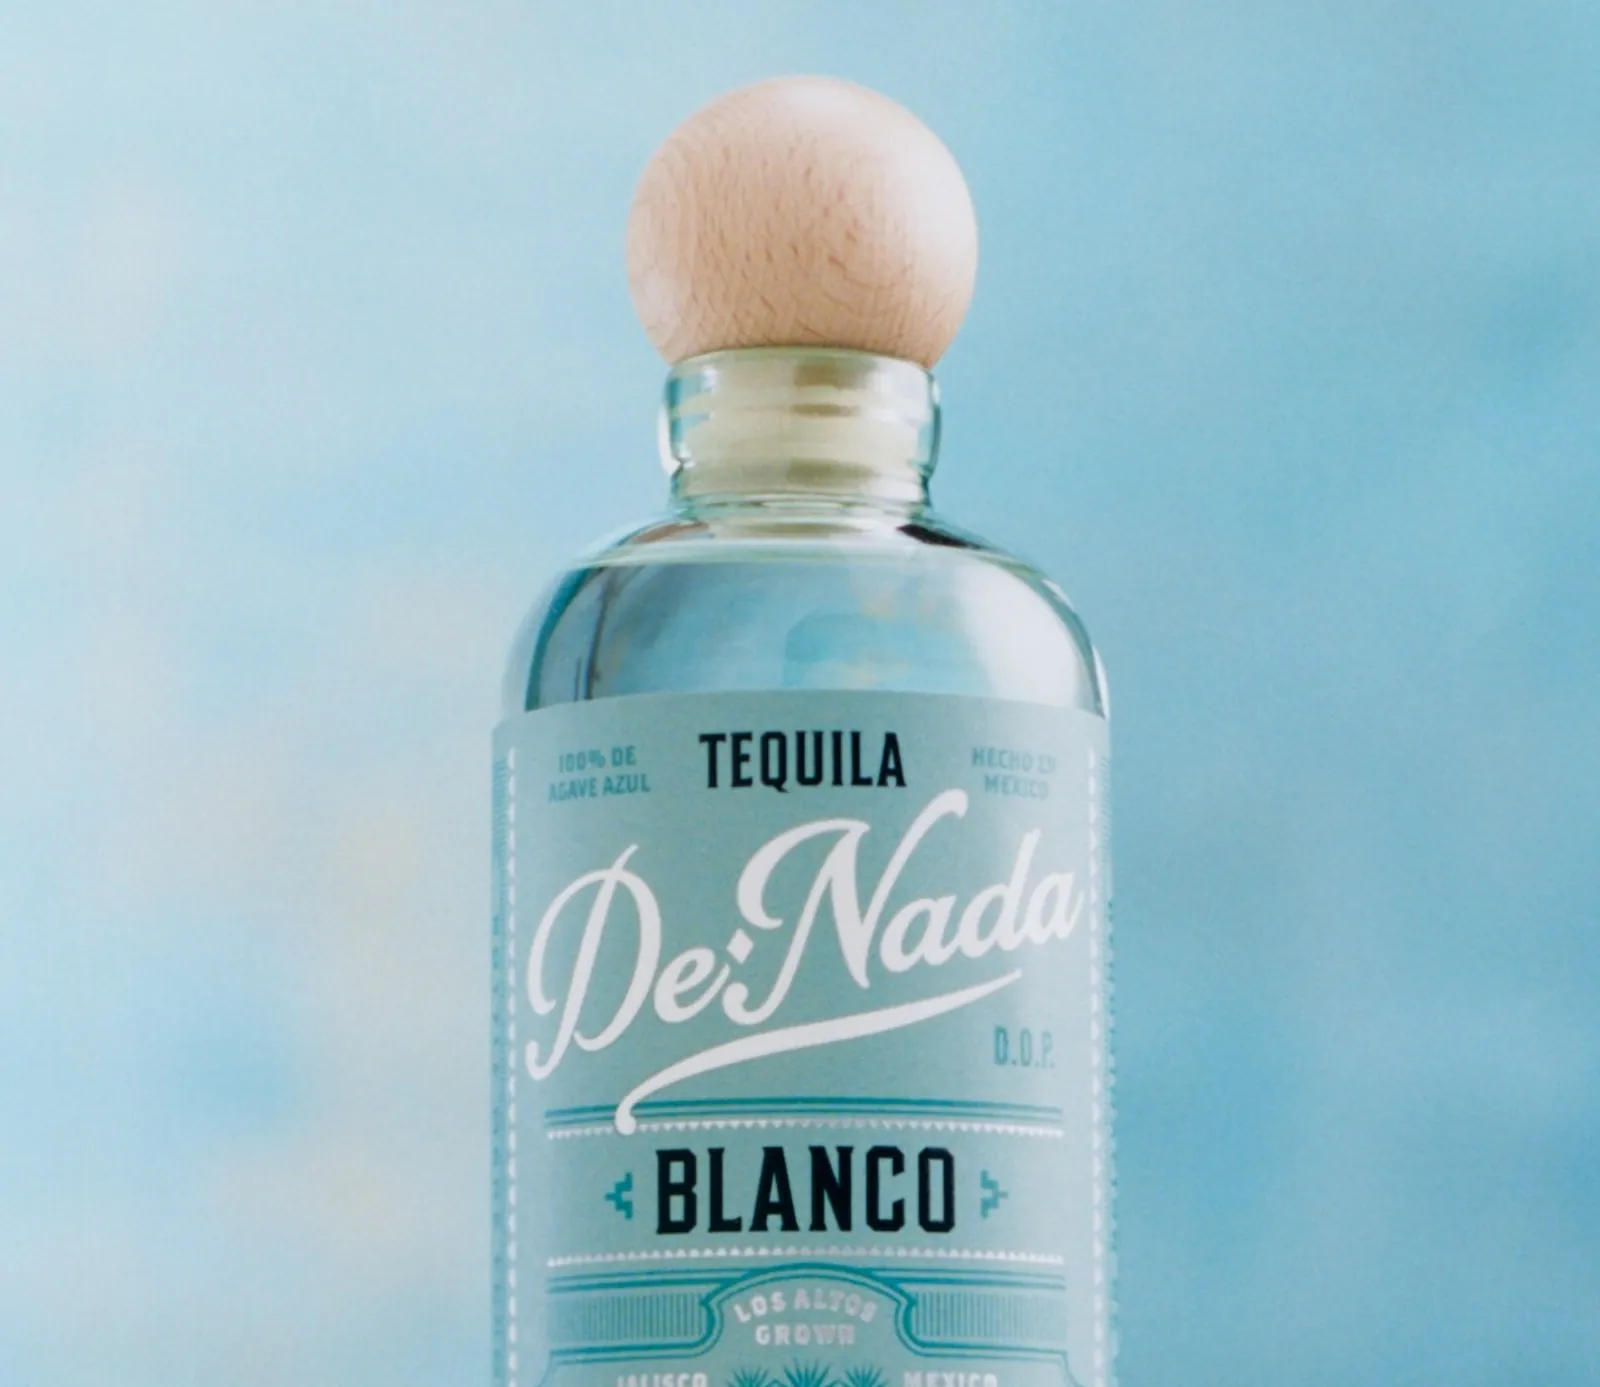
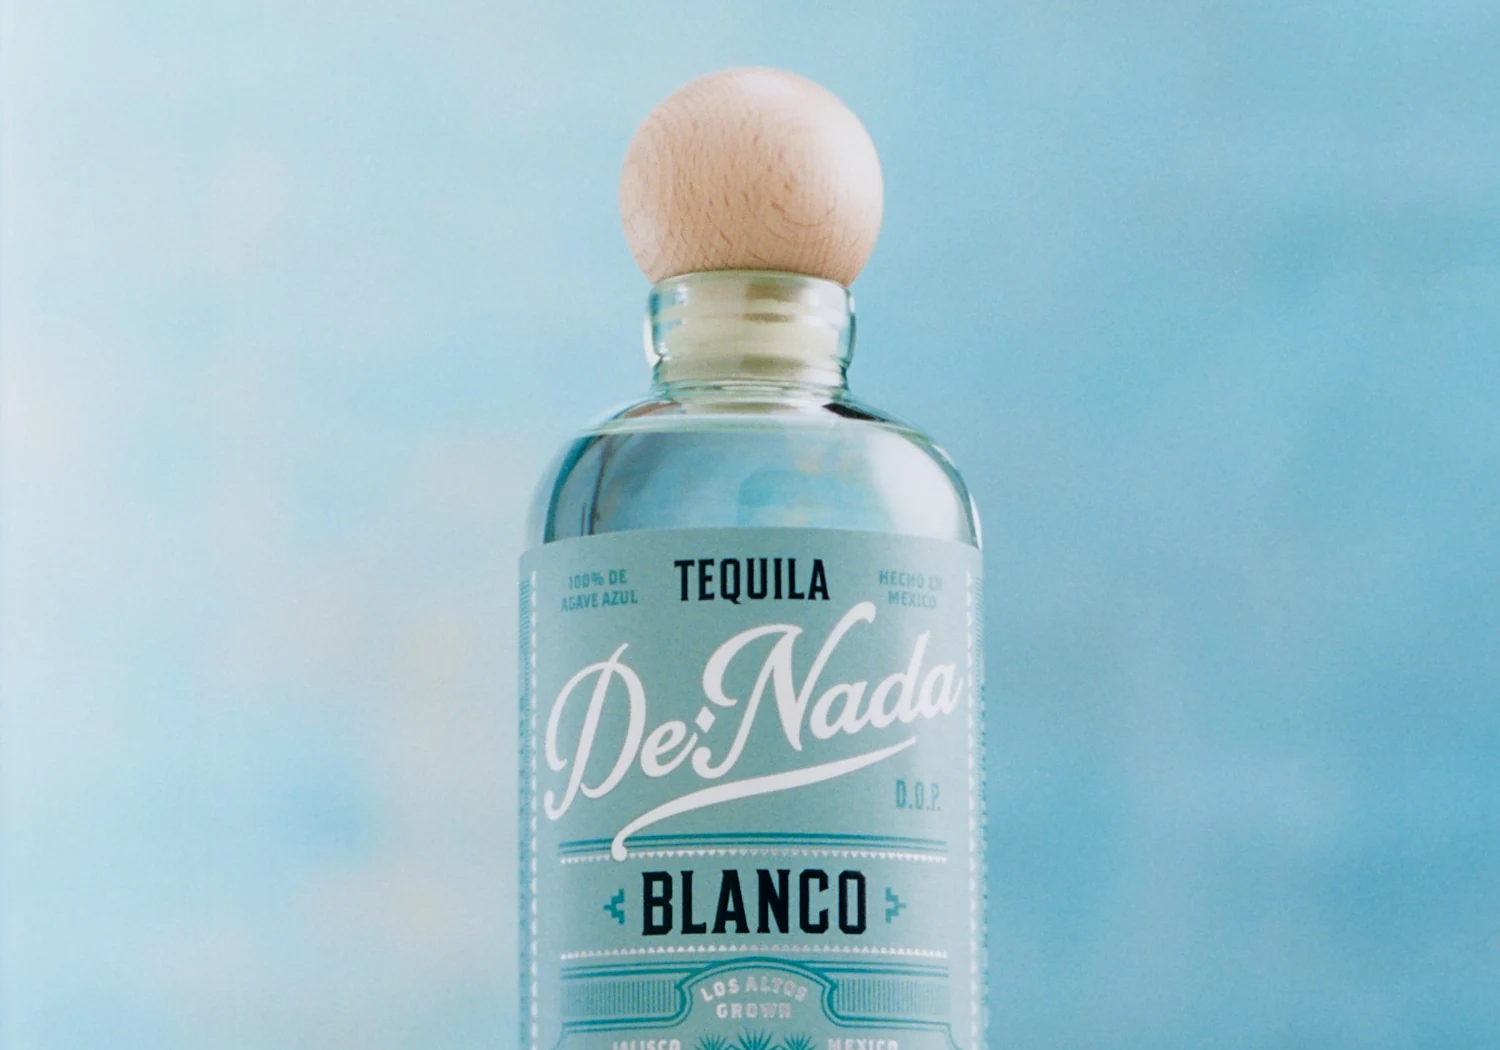
Homepage hero: wider crop from the full frame, sharpened 1500 and 2400 sizes for retina
Claude-Session: https://claude.ai/code/session_01UWF57vu2vWFVNSypGjnUEY

diff --git a/index.html b/index.html
@@ -75,7 +75,7 @@ nav{position:sticky;top:0;z-index:50;background:var(--cream);border-bottom:2px s
 .hero-ctas{margin-top:32px;display:flex;gap:16px;flex-wrap:wrap}
 /* bottle on the counter */
 .hero-bottle{position:absolute;top:0;bottom:0;right:0;width:58%;display:flex;justify-content:center;align-items:stretch;z-index:1}
-.hero-bottle img{height:100%;width:auto;max-width:none;object-fit:cover;object-position:50% 50%;-webkit-mask-image:linear-gradient(90deg,transparent 0,#000 18%,#000 82%,transparent 100%);mask-image:linear-gradient(90deg,transparent 0,#000 18%,#000 82%,transparent 100%)}
+.hero-bottle img{height:100%;width:auto;max-width:none;object-fit:cover;object-position:50% 45%;-webkit-mask-image:linear-gradient(90deg,transparent 0,#000 18%,#000 82%,transparent 100%);mask-image:linear-gradient(90deg,transparent 0,#000 18%,#000 82%,transparent 100%)}
 /* counter edge */
 .counter{position:relative;height:74px;background:linear-gradient(180deg,#E4ECCF, #D6E0BE)}
 .counter::before{content:"";position:absolute;top:0;left:0;right:0;height:2px;background:var(--black)}
@@ -352,7 +352,7 @@ footer a:hover{color:var(--cream)}
       </div>
     </div>
     <div class="hero-bottle li d3">
-      <img width="1600" height="1387" src="img/photos/hero-blanco-800.webp" srcset="img/photos/hero-blanco-800.webp 800w, img/photos/hero-blanco-1600.webp 1600w" sizes="(max-width:960px) 100vw, 58vw" alt="De Nada Blanco, the wooden stopper and the label, shot on film against a pale blue wall" fetchpriority="high">
+      <img width="1500" height="1050" src="img/photos/hero-blanco-1600.webp" srcset="img/photos/hero-blanco-800.webp 800w, img/photos/hero-blanco-1600.webp 1500w, img/photos/hero-blanco-2400.webp 2400w" sizes="(max-width:960px) 100vw, 58vw" alt="De Nada Blanco, the wooden stopper and the label, shot on film against a pale blue wall" fetchpriority="high">
     </div>
   </div>
   <div class="counter"><div class="rule-set"><div class="ticks"></div></div></div>
